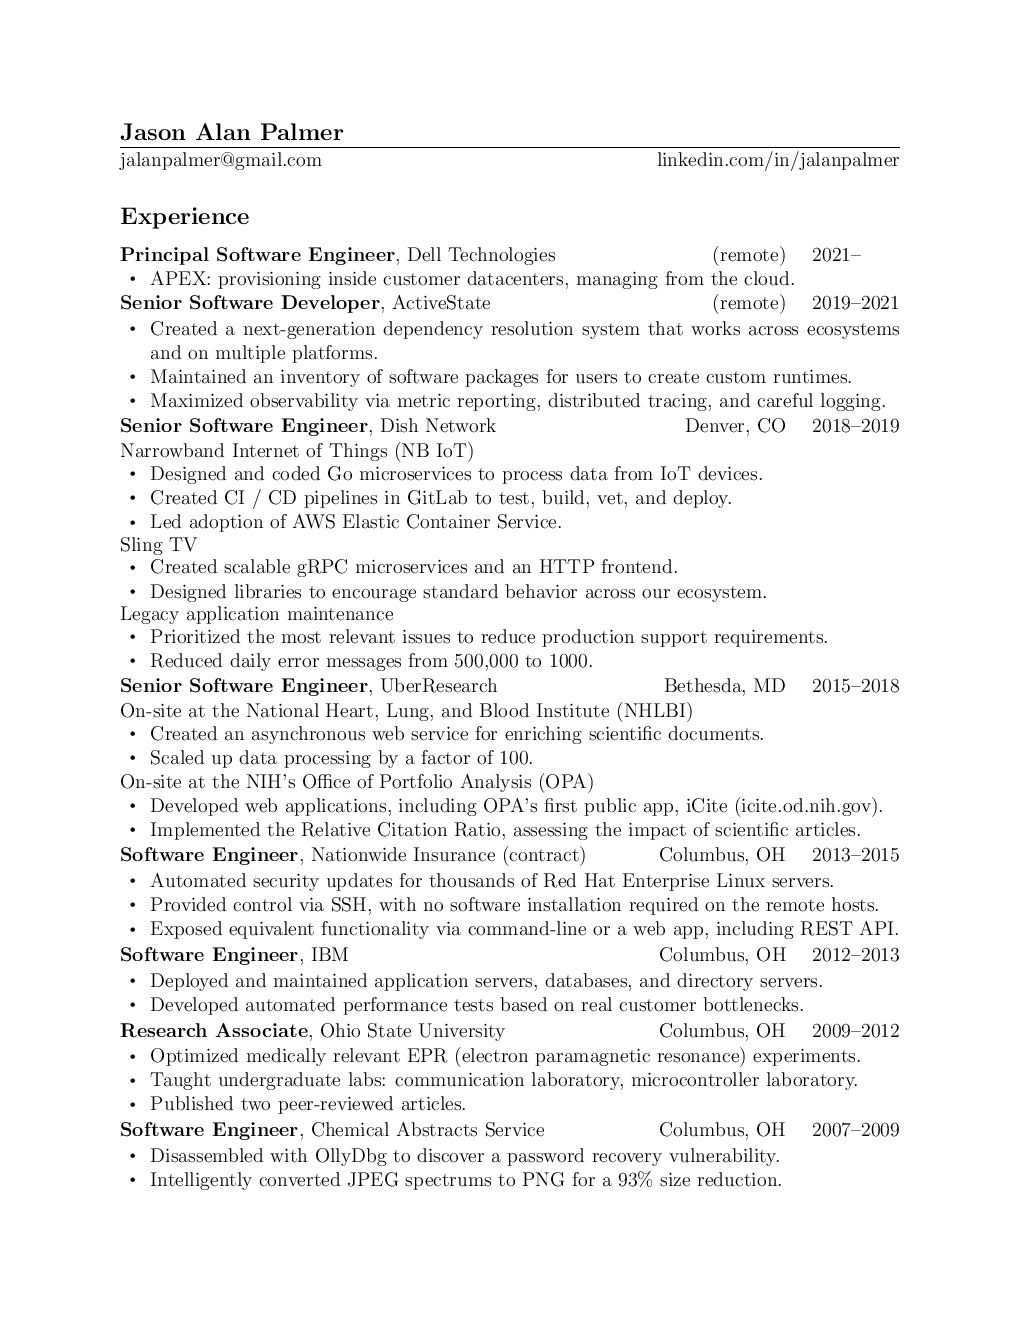
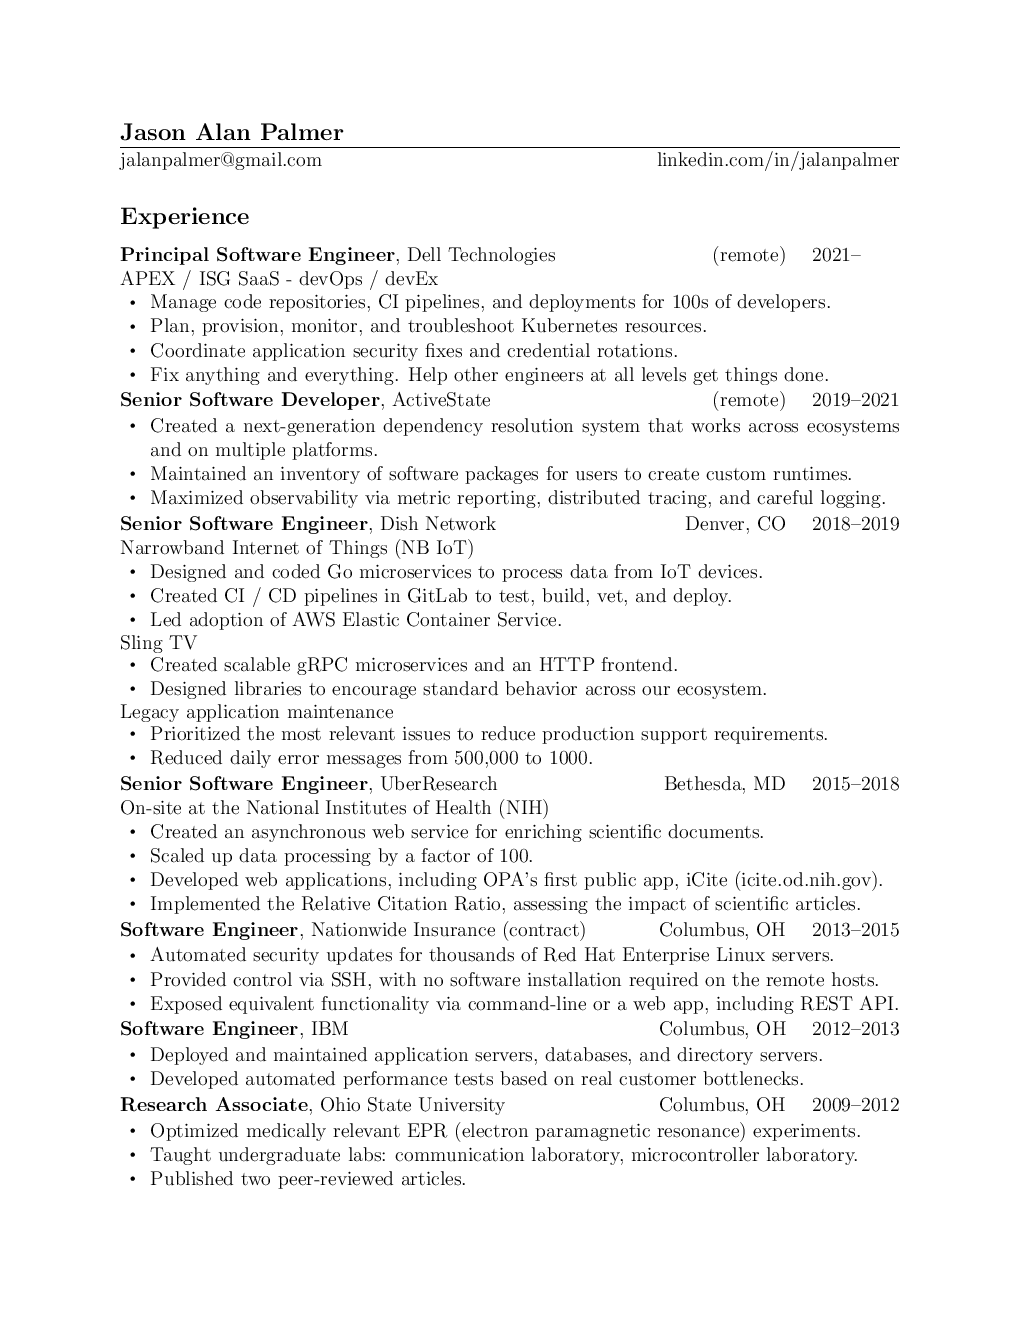
Add details of my time at Dell

Changed region(s): [[0.1216, 0.1864, 0.8814, 0.9008], [0.851, 0.497, 0.8814, 0.528], [0.7902, 0.497, 0.8206, 0.528]]

diff --git a/resume.tex b/resume.tex
@@ -53,8 +53,12 @@
 \begin{jobhead}
 \textbf{Principal Software Engineer}, Dell Technologies && (remote) ~~ 2021--~~~~~~ \\
 \end{jobhead}
+APEX / ISG SaaS - devOps / devEx \\
 \begin{bullets}
-APEX: provisioning inside customer datacenters, managing from the cloud. \\
+Manage code repositories, CI pipelines, and deployments for 100s of developers. \\
+Plan, provision, monitor, and troubleshoot Kubernetes resources. \\
+Coordinate application security fixes and credential rotations. \\
+Fix anything and everything. Help other engineers at all levels get things done. \\
 \end{bullets}
 
 \begin{jobhead}
@@ -89,13 +93,10 @@ Reduced daily error messages from 500,000 to 1000. \\
 \begin{jobhead}
 \textbf{Senior Software Engineer}, UberResearch && Bethesda, MD ~~ 2015--2018 \\
 \end{jobhead}
-On-site at the National Heart, Lung, and Blood Institute (NHLBI) \\
+On-site at the National Institutes of Health (NIH) \\
 \begin{bullets}
 Created an asynchronous web service for enriching scientific documents. \\
 Scaled up data processing by a factor of 100. \\
-\end{bullets}
-On-site at the NIH's Office of Portfolio Analysis (OPA) \\
-\begin{bullets}
 Developed web applications, including OPA's first public app, iCite (\href{https://icite.od.nih.gov}{icite.od.nih.gov}). \\
 Implemented the Relative Citation Ratio, assessing the impact of scientific articles. \\
 \end{bullets}
@@ -159,8 +160,7 @@ BS, Electrical and Computer Engineering && Ohio State University \\
 
 \subsection*{Community}
 \begin{bullets}
-Open source: when I find an issue, I investigate and try to fix it.
-This has led to contributions to
+Open source: fix issues that I encounter, leading to contributions to
 	caniuse.com,
 	Django REST framework,
 	GNU Octave,
@@ -169,7 +169,7 @@ This has led to contributions to
 	pyramid\_exclog,
 	and
 	SQLBoiler.
-I am also the author of a small Python library that has been downloaded over a million times. \\
+I am also the author of a small Python library that has been downloaded millions of times. \\
 Attend local programming meetups and major conferences such as GopherCon. \\
 \end{bullets}
 
